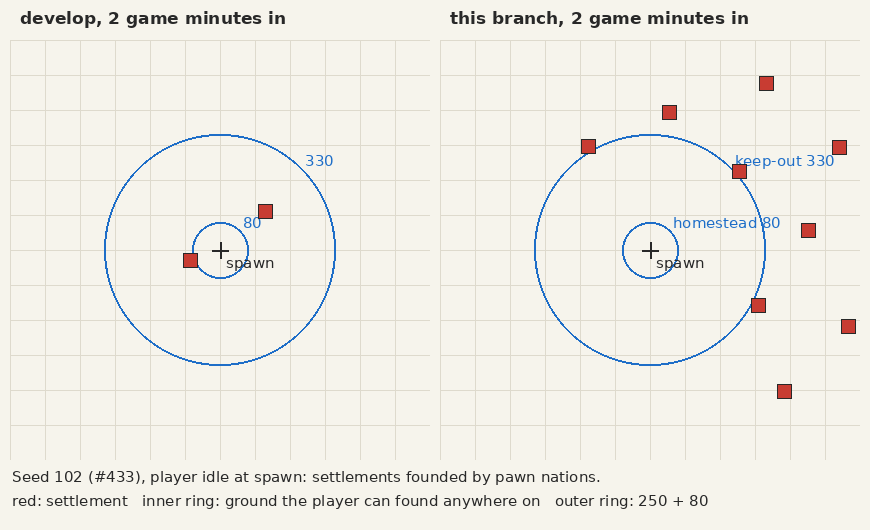
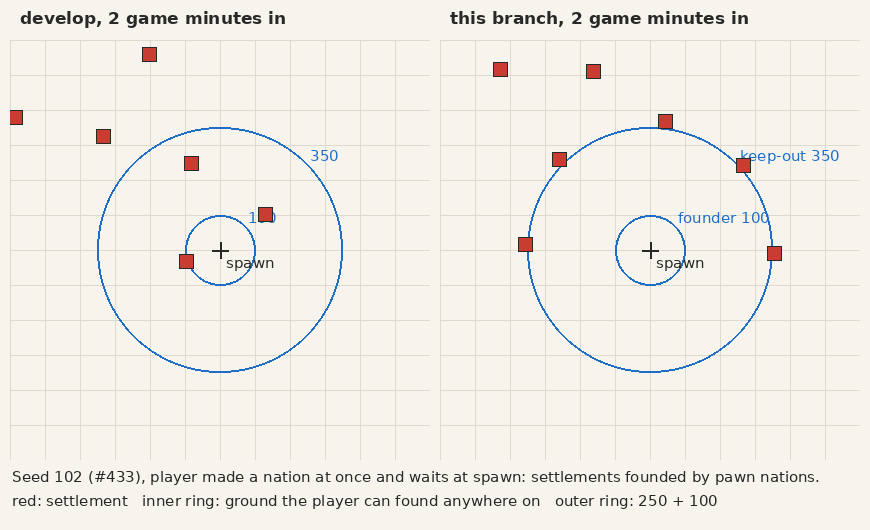
Hold ground around a player about to found, not a ring around the spawn
A fixed ring around the spawn, clear of pawn settlements from the first
tick, set the first nations on its rim and slowed the world's spread
(fewer chunks explored, so fewer pawns spawned); on seed 42 its first
winter then killed a third of the pawns (TestSeasonalRules on the develop
merge). The founder's ground now applies only while the player leads a
nation with no settlement, in the opening, and is centred on the player
(100 + 250). Charts and pacing notes are regenerated on the rebased branch.

Claude-Session: https://claude.ai/code/session_01LYNeukxdP2eURbP7PJnoVK

diff --git a/tests/BeyondNations.Core.Tests/nation/TestReservedGround.cs b/tests/BeyondNations.Core.Tests/nation/TestReservedGround.cs
@@ -88,44 +88,53 @@ namespace beyondnationstests {
         }
 
         [Fact]
-        public void testNoPawnFoundsNearTheSpawn_InTheOpening_SoThePlayerCanFoundThere() {
+        public void testNoPawnFoundsNearAPlayerAboutToFound_SoTheirFirstFGoesThrough() {
             Simulation simulation = newWorld(102);
-            // three game minutes: the #433 report saw nations crowd the spawn within the first day
-            run(simulation, 180 * 50);
-            int minDistance = simulation.getGameConfig().getMinDistanceBetweenSettlements();
-            foreach (Entity settlement in simulation.getEntityRepository().getEntitiesOfType(EntityType.SETTLEMENT)) {
-                Assert.True(Territory.groundDistance(settlement.getPosition(), ReservedGround.Spawn) > minDistance + ReservedGround.HOMESTEAD_RADIUS,
-                    "a settlement was founded " + Territory.groundDistance(settlement.getPosition(), ReservedGround.Spawn) + " from the spawn");
-            }
-            Assert.NotEmpty(simulation.getEntityRepository().getEntitiesOfType(EntityType.SETTLEMENT));
-
-            // anywhere in the homestead, the player's first F goes through
             Player player = simulation.getPlayer();
+            simulation.fixedUpdate(Step);
+            // a player who has created a nation but not yet founded, idle at the spawn
             new NationCreateCommand(simulation.getNationRepository(), simulation.getEventProducer(),
                 simulation.getRandom(), simulation.getNationNameGenerator()).execute(player);
+            Assert.True(simulation.getReservedGround().isFounding());
+            // three game minutes: the #433 report saw nations crowd the open ground within the first day
+            run(simulation, 180 * 50);
+            int minDistance = simulation.getGameConfig().getMinDistanceBetweenSettlements();
+            Assert.NotEmpty(simulation.getEntityRepository().getEntitiesOfType(EntityType.SETTLEMENT));
+            foreach (Entity settlement in simulation.getEntityRepository().getEntitiesOfType(EntityType.SETTLEMENT)) {
+                Assert.True(Territory.groundDistance(settlement.getPosition(), player.getPosition()) > minDistance + ReservedGround.FOUNDER_RADIUS,
+                    "a settlement was founded " + Territory.groundDistance(settlement.getPosition(), player.getPosition()) + " from the player");
+            }
+
+            // anywhere within the founder's radius, the player's first F goes through
             player.getInventory().addItem(ItemType.WOOD, Settlement.WOOD_COST_TO_BUILD);
-            player.setPosition(new Vector3(ReservedGround.HOMESTEAD_RADIUS * 0.7f, 1f, -ReservedGround.HOMESTEAD_RADIUS * 0.7f));
+            player.setPosition(player.getPosition() + new Vector3(ReservedGround.FOUNDER_RADIUS * 0.7f, 0, -ReservedGround.FOUNDER_RADIUS * 0.7f));
             new FoundSettlementCommand(simulation.getNationRepository(), simulation.getEventProducer(),
                 simulation.getEntityRepository(), simulation.getGameConfig(), simulation.getRandom()).execute(player);
             Assert.StartsWith("Settlement founded.", player.getStatus().getStatus());
             Assert.False(simulation.getReservedGround().isOpening());
+            Assert.False(simulation.getReservedGround().isFounding());
         }
 
         [Fact]
-        public void testPawnFounding_KeepsClearOfTheHomestead() {
+        public void testPawnFounding_KeepsClearOfAPlayerAboutToFound_AndOnlyThen() {
             Simulation simulation = newWorld(5);
             simulation.fixedUpdate(Step);
             ReservedGround reserved = simulation.getReservedGround();
             float minDistance = simulation.getGameConfig().getMinDistanceBetweenSettlements();
-            Assert.False(reserved.allowsPawnFounding(new Vector3(minDistance, 1, 0), minDistance));
-            Assert.True(reserved.allowsPawnFounding(new Vector3(minDistance + ReservedGround.HOMESTEAD_RADIUS + 1, 1, 0), minDistance));
+            Vector3 near = new Vector3(minDistance, 1, 0);
+            // a player with no nation holds no ground: the world opens as it always has
+            Assert.False(reserved.isFounding());
+            Assert.True(reserved.allowsPawnFounding(near, minDistance));
+            Assert.Equal(new Vector3(10, 1, 0), PawnBehaviorExecutor.findSettlementSite(new Vector3(10, 1, 0), new List<Entity>(), minDistance, reserved));
 
-            // a settler standing at the spawn walks out past it
+            new NationCreateCommand(simulation.getNationRepository(), simulation.getEventProducer(),
+                simulation.getRandom(), simulation.getNationNameGenerator()).execute(simulation.getPlayer());
+            Assert.False(reserved.allowsPawnFounding(near, minDistance));
+            Assert.True(reserved.allowsPawnFounding(new Vector3(minDistance + ReservedGround.FOUNDER_RADIUS + 1, 1, 0), minDistance));
+            // a settler standing by the player walks out past it
             Vector3? site = PawnBehaviorExecutor.findSettlementSite(new Vector3(10, 1, 0), new List<Entity>(), minDistance, reserved);
             Assert.NotNull(site);
             Assert.True(reserved.allowsPawnFounding(site.Value, minDistance));
-            // with nothing reserved it would have founded where it stood
-            Assert.Equal(new Vector3(10, 1, 0), PawnBehaviorExecutor.findSettlementSite(new Vector3(10, 1, 0), new List<Entity>(), minDistance));
         }
 
         [Fact]
@@ -136,6 +145,8 @@ namespace beyondnationstests {
             ReservedGround reserved = simulation.getReservedGround();
             int minDistance = simulation.getGameConfig().getMinDistanceBetweenSettlements();
 
+            // past the opening, so only the held site is reserved
+            advanceClock(simulation, ReservedGround.OPENING_SECONDS * 50);
             // the player leads a nation far from the spawn, beside a pawn nation's camp
             world.settlement(world.pawnNation("Aland", 1), 5000, 5000);
             world.playerNation(1);

diff --git a/src/BeyondNations.Core/territory/ReservedGround.cs b/src/BeyondNations.Core/territory/ReservedGround.cs
@@ -11,10 +11,15 @@ namespace beyondnations {
     *     the spawn within about 40 game seconds, so a player who read the
     *     tips for half a minute met "Walk up to a tree" with no tree in
     *     sight (#351).
-    *   - The homestead: during the opening, no pawn founds a settlement close
-    *     enough to the spawn to stop the player founding anywhere within
-    *     HOMESTEAD_RADIUS of it. Settlers otherwise filled the open ground
-    *     around the player in the first in-game day (#433).
+    *   - The would-be founder's ground: while the player leads a nation
+    *     that has no settlement yet, in the opening, no pawn founds a
+    *     settlement close enough to stop the player founding anywhere within
+    *     FOUNDER_RADIUS of where they stand. Settlers otherwise filled the
+    *     open ground around the player in the first in-game day (#433). It
+    *     follows the player and starts only once they lead a nation: a fixed
+    *     ring around the spawn, clear from the first tick, set the first
+    *     nations on its rim, slowed the world's spread (fewer chunks, so
+    *     fewer pawns) and left it short of shelter in its first winter.
     *   - The pointed-out site: when a refused founding names open ground
     *     (FoundSettlementCommand), no pawn founds close enough to it to shut
     *     it for HELD_SITE_SECONDS, the time it takes to walk there. Each
@@ -24,12 +29,12 @@ namespace beyondnations {
     * The opening lasts OPENING_SECONDS of game time from the start of the
     * world, or until the player has a home settlement. Everything here is
     * derived from the tick count and the player, apart from the held site,
-    * which lasts seconds and is not saved.
+    * which lasts two minutes and is not saved.
     */
     public class ReservedGround {
         public const int OPENING_SECONDS = 600;
         public const float GROVE_RADIUS = 60f;
-        public const float HOMESTEAD_RADIUS = 80f;
+        public const float FOUNDER_RADIUS = 100f;
         public const int HELD_SITE_SECONDS = 120;
         /** How near the pointed-out site the player can stand and still find it open. */
         public const float HELD_SITE_RADIUS = 25f;
@@ -64,6 +69,11 @@ namespace beyondnations {
                 && tickCounter.getTotalTicks() < OPENING_SECONDS * tickCounter.getTicksPerSecond();
         }
 
+        /** Whether the player is about to found: in the opening, in a nation, with no home settlement yet. */
+        public bool isFounding() {
+            return isOpening() && player.getNationId() != null;
+        }
+
         /** The site being held for the player, or null. */
         public Vector3? getHeldSite() {
             return heldSite;
@@ -85,8 +95,8 @@ namespace beyondnations {
         */
         public float getRoom(Vector3 position) {
             float room = float.MaxValue;
-            if (isOpening()) {
-                room = System.MathF.Min(room, Territory.groundDistance(position, Spawn) - HOMESTEAD_RADIUS);
+            if (isFounding()) {
+                room = System.MathF.Min(room, Territory.groundDistance(position, player.getPosition()) - FOUNDER_RADIUS);
             }
             if (heldSite != null) {
                 room = System.MathF.Min(room, Territory.groundDistance(position, heldSite.Value) - HELD_SITE_RADIUS);

diff --git a/src/BeyondNations.Core/simulation/Simulation.cs b/src/BeyondNations.Core/simulation/Simulation.cs
@@ -52,7 +52,7 @@ namespace beyondnations {
         private WorldEvents worldEvents;
         private TradeCaravans tradeCaravans;
         private EraTracker eraTracker;
-        // the spawn grove, the homestead and the pointed-out site, kept for the player in the opening
+        // the spawn grove, the would-be founder's ground and the pointed-out site, kept for the player in the opening
         private ReservedGround reservedGround;
 
         private int numPawnDeaths = 0;

diff --git a/docs/PACING.md b/docs/PACING.md
@@ -103,13 +103,13 @@ Measured with eras (Camp to Kingdom, see SYSTEMS.md) and the hungry start (the p
 
 ### The opening (#351, #370, #433)
 
-Keeping the spawn's trees and the ground around it for the player in the opening (`ReservedGround`), and the first world event within a minute and a half of founding, left every binding objective where it was: on seeds 1 to 5 the steps up to "Build a market stall" take the same seconds as on develop, the Village era is still 17m 00s, and "Sell resources" and "Found a second settlement" moved by at most 20 seconds. The bot does not see the spawn changes, since it founds where it gathers its wood, a few seconds in; they are for a person who reads the tips first. Measured headless instead (`docs/screenshots/early-game-opening/`): on seed 1450162717 the nearest tree to the idle player is 33.5 m away at 1, 40 and 120 seconds, against 165 m at 40 seconds on develop; on seed 102 the nearest settlement to the spawn after two minutes is 339 m off, against 90 m; and a player who founds 20 seconds in meets their first event at 110 seconds, against 557.
+Keeping the spawn's trees and a would-be founder's ground for the player in the opening (`ReservedGround`), and the first world event within a minute and a half of founding, left every binding objective where it was: on seeds 1 to 5 the steps up to "Build a market stall" take the same seconds as on develop, the Village era is still 7m 00s, and "Sell resources" and "Found a second settlement" moved by at most 30 seconds. The bot does not see the spawn changes, since it founds where it gathers its wood, a few seconds in; they are for a person who reads the tips first. Measured headless instead (`docs/screenshots/early-game-opening/`): on seed 1450162717 the nearest tree to the idle player is 33.5 m away at 1, 40 and 120 seconds, against 165 m at 40 seconds on develop; on seed 102, with a nation made at once and not yet settled, the nearest settlement to the player after two minutes is 356 m off, against 102 m; and a player who founds 20 seconds in meets their first event at 110 seconds, against 557.
 
-The bot now answers each world event's sheet (above) instead of leaving it to its default, because the first event used to come after the arc and now comes in the middle of it: left alone, the bandits' default ("bar the gates") robbed the bot's village every minute for a day and a half. The advisory "Grow your nation to 16" after the Village era is very sensitive to anything that changes who joins whom. On develop it took 21m 48s, 20m 43s, 43m 32s, 17m 03s and 33m 06s on seeds 1 to 5; on develop with only the bot answering events, seed 1 never got there in the hour; with this change seeds 1 and 3 never do and seeds 2, 4 and 5 take 20m 05s, 45m 49s and 41m 41s. That ambition was already the one the harness lists as still being balanced (Known issues), and it stays advisory. The budget is unchanged.
+The bot now answers each world event's sheet (above) instead of leaving it to its default, because the first event used to come after the arc and now comes in the middle of it: left alone, the bandits' default ("bar the gates") robbed the bot's village every minute for a day and a half. The advisory ambitions after the Village era all still complete: "Grow your nation to 16" takes 13m 30s, 8m 00s, 9m 32s, 10m 55s and 14m 01s from the start on seeds 1 to 5, against 22m 01s, 19m 00s, 8m 05s, 7m 03s and 9m 42s on develop, and the Town era and "Grow your nation to 25" are unchanged at 57m. The budget is unchanged.
 
 Answering events also brought out a crash: a claimant the player warns against is put out of their nation (`Realm.expel`), and if they were indoors at the time the next behaviour decision dereferenced their missing nation. A nationless pawn inside a settlement now walks out (`PawnBehaviorCalculator`).
 
-![Settlements founded near the spawn in the first two minutes, develop and this change, seed 102](./screenshots/early-game-opening/settlements-near-spawn-120s.png)
+![Settlements founded near a player about to found, in the first two minutes, develop and this change, seed 102](./screenshots/early-game-opening/settlements-near-spawn-120s.png)
 
 ### The eras
 

diff --git a/docs/SYSTEMS.md b/docs/SYSTEMS.md
@@ -199,11 +199,11 @@ Every settlement claims a circle of land around it whose radius grows with its t
 - **Borders are visible.** `SettlementLayout` rings each claim with short posts capped in the nation's colour, about one every 10 units, so two nations' claims meet as two colours of post.
 - **Founding is refused inside another nation's claim**, by the player (`This land is claimed by Xland.`) and by leader pawns alike; founding within 450 units of another nation's settlement costs relations with it.
 - **Founding is refused within `GameConfig.minDistanceBetweenSettlements` (250) of any settlement.** The player's refusal names the nearest settlement in the way, its distance and the minimum, and both refusals end with the nearest open ground (`SettlementSites`: the nearest point, searched outward in steps of 10 along 16 bearings up to 1,000, clear of every settlement and outside other nations' claims; north is +Z): `Too close to the Camp of Xland: 175 paces away, and settlements must be 250 paces apart. Open ground lies about 80 paces to the west.`
-- **Ground kept for the player in the opening** (`ReservedGround`). For the first 10 minutes of game time, or until the player has a home settlement: pawns leave the trees and rocks within 60 of the spawn alone, so the first objective has a tree in sight (#351); and no pawn founds a settlement within 250 + 80 of the spawn, so the player can found anywhere within 80 of it (#433). Whenever a refusal names open ground, no pawn founds within 250 + 25 of that spot for the next 2 minutes, the time it takes to walk there, so the hint does not move on while the player follows it (#433).
+- **Ground kept for the player in the opening** (`ReservedGround`). For the first 10 minutes of game time, or until the player has a home settlement: pawns leave the trees and rocks within 60 of the spawn alone, so the first objective has a tree in sight (#351); and while the player leads a nation that has no settlement yet, no pawn founds a settlement within 250 + 100 of where the player stands, so the player can found anywhere within 100 of it (#433). Whenever a refusal names open ground, no pawn founds within 250 + 25 of that spot for the next 2 minutes, the time it takes to walk there, so the hint does not move on while the player follows it (#433).
 
   ![Trees and rocks within 60 m of the spawn at 1, 40 and 120 game seconds, develop against this change, seed 1450162717](./screenshots/early-game-opening/trees-near-spawn.gif)
 
-  ![Settlements pawn nations founded within 600 m of the spawn by two game minutes, develop against this change, seed 102](./screenshots/early-game-opening/settlements-near-spawn-120s.png)
+  ![Settlements pawn nations founded within 600 m of a player who created a nation at the start and has not founded yet, two game minutes in, develop against this change, seed 102](./screenshots/early-game-opening/settlements-near-spawn-120s.png)
 - **The player knows where they are.** The player box has a `Land:` line (`wilds`, `your own land`, or `Xland (Rival)`), and crossing a border puts it on the status line. Above it, a `Facing:` line names the compass point the player faces and walks with W (`Compass.facing`, the same eight points the founding hints use), so a hint's direction can be followed. The compact box shown inside a settlement leaves it out.
 - Touching borders are friction between nations, and a siege takes a whole settlement and its claim with it (see Nation).
 

diff --git a/docs/SAVES.md b/docs/SAVES.md
@@ -123,8 +123,8 @@ world. `TestRegionMap` pins seed 42's regions so it cannot change by accident.
 
 **The ground kept for the player in the opening is derived** (`ReservedGround`,
 no format change): the opening is a function of the tick count and the
-player's home settlement, and the grove and homestead are fixed distances from
-the spawn. The one piece of it that is not derived, the open ground a refused
+player's home settlement and nation, the grove is a fixed distance from the
+spawn and the founder's ground a fixed distance from the player. The one piece of it that is not derived, the open ground a refused
 founding has just named, is held for two minutes and is deliberately not
 saved: a world loaded during those two minutes lets it go.
 
